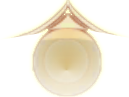
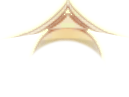
IO优化，技能计算优化，图片细节修改
存档的时候的反馈不再是重新加载存档，而只是修改对应的图片和文字，大量减少IO操作
减少技能不生效时候的update计算
一些图片的品质和细节有些许修改

Changed region(s): [[0.2481, 0.4021, 0.8062, 1.0]]

diff --git a/Assets/Codes/UI/UISaveLoadSelect/UISaveLoadSelect.cs b/Assets/Codes/UI/UISaveLoadSelect/UISaveLoadSelect.cs
@@ -61,11 +61,13 @@ public class UISaveLoadSelect : UIBasic {
     /// </summary>
 	private void MakeSave(int ID)
 	{
+		
 		bool saveOp = SystemValues.SaveInformation (ID.ToString());
 		StartCoroutine (OnScreenCapture2 (ID));
 		string show = saveOp ? "存档成功" : "存档失败";
 		UIController.GetInstance ().ShowUI<messageBox> (show);
-		loadButtonInformation ();
+		//loadButtonInformation ();全体刷新经过多次IO，不是好方法
+		loadButtonInformationFromMemory(ID);//假装先存档完成
 
 	}
 
@@ -80,7 +82,10 @@ public class UISaveLoadSelect : UIBasic {
 	}
 
 
-
+	/// <summary>
+	/// 整体获取存档信息的方法
+	/// 这个方法只适合在初始化的时候使用
+	/// </summary>
 	private void loadButtonInformation()
 	{
 		StartCoroutine (loadPicture());
@@ -100,6 +105,34 @@ public class UISaveLoadSelect : UIBasic {
 			saveButtonTimeText[i].text = fi.LastWriteTime.ToString ();
 		}
 	}
+
+	/// <summary>
+	/// 存档的时候直接使用当前存档信息来修改按钮信息
+	/// 这样就可以不经过IO并且减少针对其它存档的计算
+	/// </summary>
+	private void loadButtonInformationFromMemory(int ID)
+	{
+		saveButtonTimeText[ID].text = System.DateTime.Now.ToString ();
+		saveButtonTexts [ID ].text = "Lv."+ SystemValues.thePlayer.GetComponent<Player>().lvNow;
+
+		//直接获取屏幕信息当截图不经过IO
+		int widthUse = Screen.width;
+		int heightUse = Screen.height;
+
+		RenderTexture rt = new RenderTexture( widthUse, heightUse, 0);
+		theCamera.targetTexture = rt;
+		theCamera.Render();
+		RenderTexture.active = rt;
+
+		Texture2D tex =  new Texture2D(widthUse,heightUse, TextureFormat.RGB24, false);//新建一张图
+		tex.ReadPixels (new Rect (0, 0, widthUse, heightUse), 0, 0, true);//从屏幕开始读点
+		tex = ScaleTexture(tex , width ,  height);//缩放的过程
+
+		saveButtonImages[ID].sprite = Sprite.Create (tex, new Rect (0, 0, tex.width, tex.height), new Vector2 (0, 0));
+
+	}
+
+
 
 	//获取存档截图
 	IEnumerator loadPicture()
@@ -159,8 +192,8 @@ public class UISaveLoadSelect : UIBasic {
 			int widthUse = Screen.width;
 			int heightUse = Screen.height;
 
+			//下面四行主要是为了防止闪屏
 			RenderTexture rt = new RenderTexture( widthUse, heightUse, 0);
-
 			theCamera.targetTexture = rt;
 			theCamera.Render();
 			RenderTexture.active = rt;

diff --git a/Assets/Codes/UI/UIMissionCanvas/MissionButton.cs b/Assets/Codes/UI/UIMissionCanvas/MissionButton.cs
@@ -12,6 +12,7 @@ public class MissionButton : MonoBehaviour {
 	private Text missionInformationText;
 	private Button theMissionButton;
 	public int missionID = 0;//用于排序的ID
+	private ColorBlock colorBuff;//用来存储本来的颜色
 
 	public void SetMission(MissionBasic In , Text missionText)
 	{
@@ -36,6 +37,7 @@ public class MissionButton : MonoBehaviour {
 			theMissionButton.colors = mainMissionColor;
 			missionID = 0;
 		}
+		colorBuff = theMissionButton.colors;
 		
 	}
 
@@ -43,5 +45,25 @@ public class MissionButton : MonoBehaviour {
 	public void MakeSelectMission()
    {
 		missionInformationText.text = theMission.missionInformation;
+
+		if (selectedMissionButton)
+			selectedMissionButton.theMissionButton.colors = selectedMissionButton.colorBuff;
+		selectedMissionButton = this;
+		this.theMissionButton.colors = GetSelectedMissionColor();
    }
+	 
+
+	//有关颜色的额外操作
+	private static ColorBlock selectedMissionColor;
+	private static MissionButton selectedMissionButton;
+	public static ColorBlock GetSelectedMissionColor()
+	{
+		selectedMissionColor = new ColorBlock ();
+		selectedMissionColor.normalColor = Color.cyan;
+		selectedMissionColor.highlightedColor = Color.cyan;
+		selectedMissionColor.pressedColor = Color.gray;
+		selectedMissionColor.colorMultiplier = 1f;
+		return selectedMissionColor;
+	}
+		
 }

diff --git a/Assets/Codes/skill/Skills/JumpSkill.cs b/Assets/Codes/skill/Skills/JumpSkill.cs
@@ -20,6 +20,7 @@ public class JumpSkill : SkillBasic {
 		moveOBJ = thePlayer.GetComponent<move> ();
 		if (!theMoveController)
 			Destroy (this);
+		this.enabled = false;
 	}
 
 	public override void Init ()
@@ -42,6 +43,8 @@ public class JumpSkill : SkillBasic {
 
 			if (theAnimatorController && !(moveOBJ.theMoveModeNow is flyMoveMode))
 				theAnimatorController.PlayAnimation (playerAction.jump);
+
+			this.enabled = true;
 		}
 		else 
 			UIController.GetInstance ().ShowUI<messageBox> ("暂时无法使用此技能");
@@ -52,6 +55,7 @@ public class JumpSkill : SkillBasic {
 	{
 		//动作结尾
 		moveOBJ.theMoveModeNow.ExtraUpdate2End (moveOBJ);
+		this.enabled = false; 
 	}
 
 	public override void OnUpdate ()

diff --git a/Assets/Codes/skill/Skills/SkillHpup.cs b/Assets/Codes/skill/Skills/SkillHpup.cs
@@ -10,6 +10,7 @@ public class SkillHpup : SkillBasic {
 	void Start ()
 	{
 		Init ();
+		this.enabled = false;
 	}
 
 	public override void Init ()
@@ -32,9 +33,16 @@ public class SkillHpup : SkillBasic {
 			float rate = thePlayer.hpNow < thePlayer.hpMaxNow * 0.5f ? 0.16f : 0.1f;
 			hpUpPerSecond = thePlayer.hpMaxNow * rate / skillEffectTime;
 			InvokeRepeating ("makeTrueHpUp", 0f, 1f);
+
+			this.enabled = true;
 		} 
 		else 
 			UIController.GetInstance ().ShowUI<messageBox> ("暂时无法使用此技能");
+	}
+
+	public override void OnCool ()
+	{
+		this.enabled = false;
 	}
 
 	float timeAdder = 0f;

diff --git a/Assets/Codes/UI/UIMissionCanvas/UIMissionCanvas.cs b/Assets/Codes/UI/UIMissionCanvas/UIMissionCanvas.cs
@@ -27,8 +27,11 @@ public class UIMissionCanvas : UIBasic {
 	public override void OnShow (string value = "")
 	{
 		Time.timeScale = 0f;
-		missionInformationText.text = "尚未选择任务";
 		ShowButtonsNew ();
+		if(theMissionButtons.Count > 0 )
+			 theMissionButtons[0].MakeSelectMission();
+		else
+		    missionInformationText.text = "当前没有任务";
 	} 
 
 

diff --git a/Assets/Codes/skill/publicMonsterSkill/monsterRush.cs b/Assets/Codes/skill/publicMonsterSkill/monsterRush.cs
@@ -8,8 +8,8 @@ public class monsterRush : MonoBehaviour {
 	//这类技能一般是叠加在FSMStage里面进行的
 	private FSMStage theAI;
 	private bool isRushing = false;
-	private float rushTimer = 0.15f;
-	private float rushTimerMax = 0.15f;
+	private float rushTimer = 0.2f;
+	private float rushTimerMax = 0.2f;
 	public float damage = 7f;
 	void Start ()
 	{

diff --git a/Assets/Codes/Scene/sceneItems/moveForwardBack.cs b/Assets/Codes/Scene/sceneItems/moveForwardBack.cs
@@ -16,7 +16,7 @@ public class moveForwardBack : MonoBehaviour {
 		aimStart = this.transform.position;
 		aimForward = this.transform.position + new Vector3 (0f, 0f, distance);
 		aimNow = aimForward;
-		InvokeRepeating ("MakeMove" , 0f , 0.5f);
+		InvokeRepeating ("MakeMove" , 0f , 1f);
 	}
 
 
